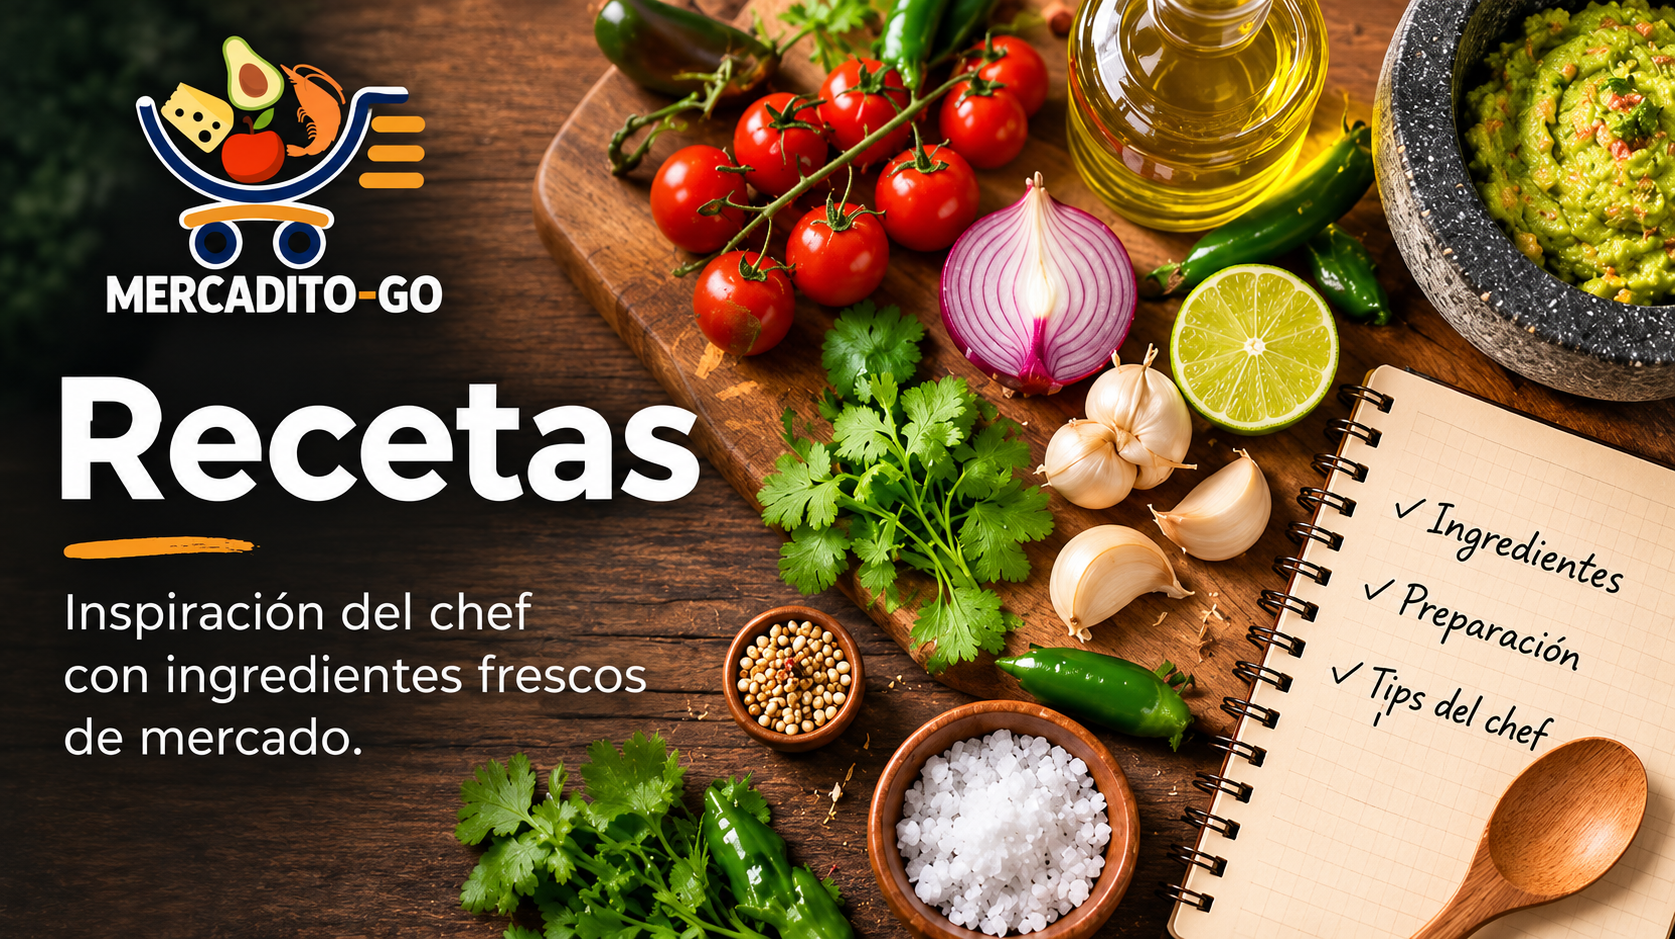
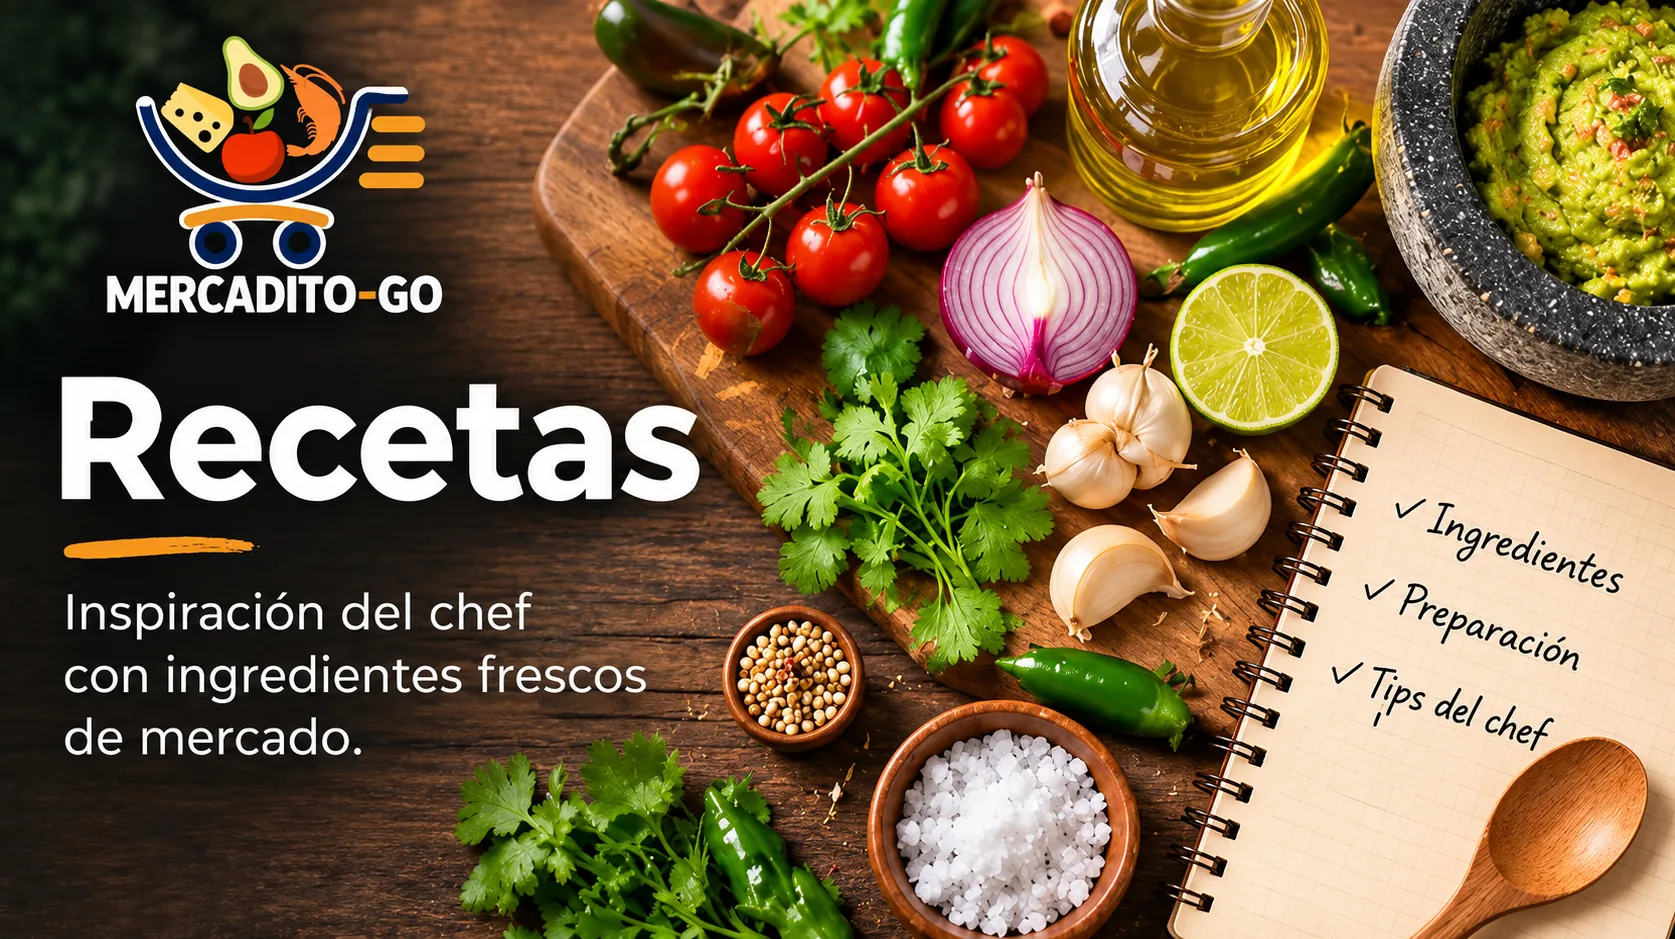
Publicar web: imagen de recetas comprimida

diff --git a/flutter_service_worker.js b/flutter_service_worker.js
@@ -48,7 +48,7 @@ const RESOURCES = {"assets/AssetManifest.bin": "b0758ce5dd5ff342654662c8d53b22d9
 "assets/assets/images/POLLO_icono.png": "42b98b8a45ddc97ca4d50ab1f5a15196",
 "assets/assets/images/product_placeholder.png": "e593005709351bf9899a0326c0ab1817",
 "assets/assets/images/QUESOS_icono.png": "94fb2de92b45677d9ccdb0185f35c3c1",
-"assets/assets/images/recetasimagen.webp": "86ae4ce803ebbd3c269e9b62b6d9b7f3",
+"assets/assets/images/recetasimagen.webp": "10b56e2d53a68b455840fc83f0a5407f",
 "assets/assets/images/recetasimagen_.webp": "27110cee740f447ea3a4407d3a7983bc",
 "assets/assets/images/RES_icono.png": "e84dddb6fcaa73fe9f473dc4ee39cfb4",
 "assets/assets/images/VERDURAS_icono.png": "403b94d6b7ad6f50ae776a3c6af51f02",
@@ -83,13 +83,13 @@ const RESOURCES = {"assets/AssetManifest.bin": "b0758ce5dd5ff342654662c8d53b22d9
 "favicon.png": "39d276a12cbc8222d7ff1d1ad3eafe39",
 "favicon2.png": "5dcef449791fa27946b3d35ad8803796",
 "flutter.js": "83d881c1dbb6d6bcd6b42e274605b69c",
-"flutter_bootstrap.js": "8596847ec35c9e42c3a4c91aff6047ad",
+"flutter_bootstrap.js": "72427285ac6bc992d414e04748ed18c1",
 "icons/Icon-192.png": "007e3303ef7f05132c099e8ea74ddc06",
 "icons/Icon-512.png": "4b2fcf0ed3cda89cf0260aa2e96cb135",
 "icons/Icon-maskable-192.png": "007e3303ef7f05132c099e8ea74ddc06",
 "icons/Icon-maskable-512.png": "4b2fcf0ed3cda89cf0260aa2e96cb135",
-"index.html": "1a7f2a48a2b045bc2fea748787e6b9c4",
-"/": "1a7f2a48a2b045bc2fea748787e6b9c4",
+"index.html": "33b863119e4ec7648d1bab89b685b971",
+"/": "33b863119e4ec7648d1bab89b685b971",
 "landing/img/01_bienvenida.webp": "2d3ce2a88375f74ef75fc09048f4d058",
 "landing/img/02_inicio.webp": "85534c8ab5a180ae47fd18fe0736ac62",
 "landing/img/03_productos.webp": "b44fe0f134e4bdab830e4559e48acc72",

diff --git a/index.html b/index.html
@@ -159,7 +159,7 @@
       // Download main.dart.js
       _flutter.loader.loadEntrypoint({
         serviceWorker: {
-          serviceWorkerVersion: "136432532",
+          serviceWorkerVersion: "1076398709",
         },
         onEntrypointLoaded: function(engineInitializer) {
           engineInitializer.initializeEngine().then(function(appRunner) {
@@ -208,7 +208,7 @@
     // al volver a la app se compara la versión de esta página con la
     // publicada; si cambió, se ofrece actualizar con un toque.
     (function () {
-      var current = "136432532";
+      var current = "1076398709";
       if (!current || !('fetch' in window)) return;
       var shown = false;
 

diff --git a/flutter_bootstrap.js b/flutter_bootstrap.js
@@ -39,6 +39,6 @@ _flutter.buildConfig = {"engineRevision":"72f2b18bb094f92f62a3113a8075240ebb59af
 
 _flutter.loader.load({
   serviceWorkerSettings: {
-    serviceWorkerVersion: "136432532"
+    serviceWorkerVersion: "1076398709"
   }
 });
